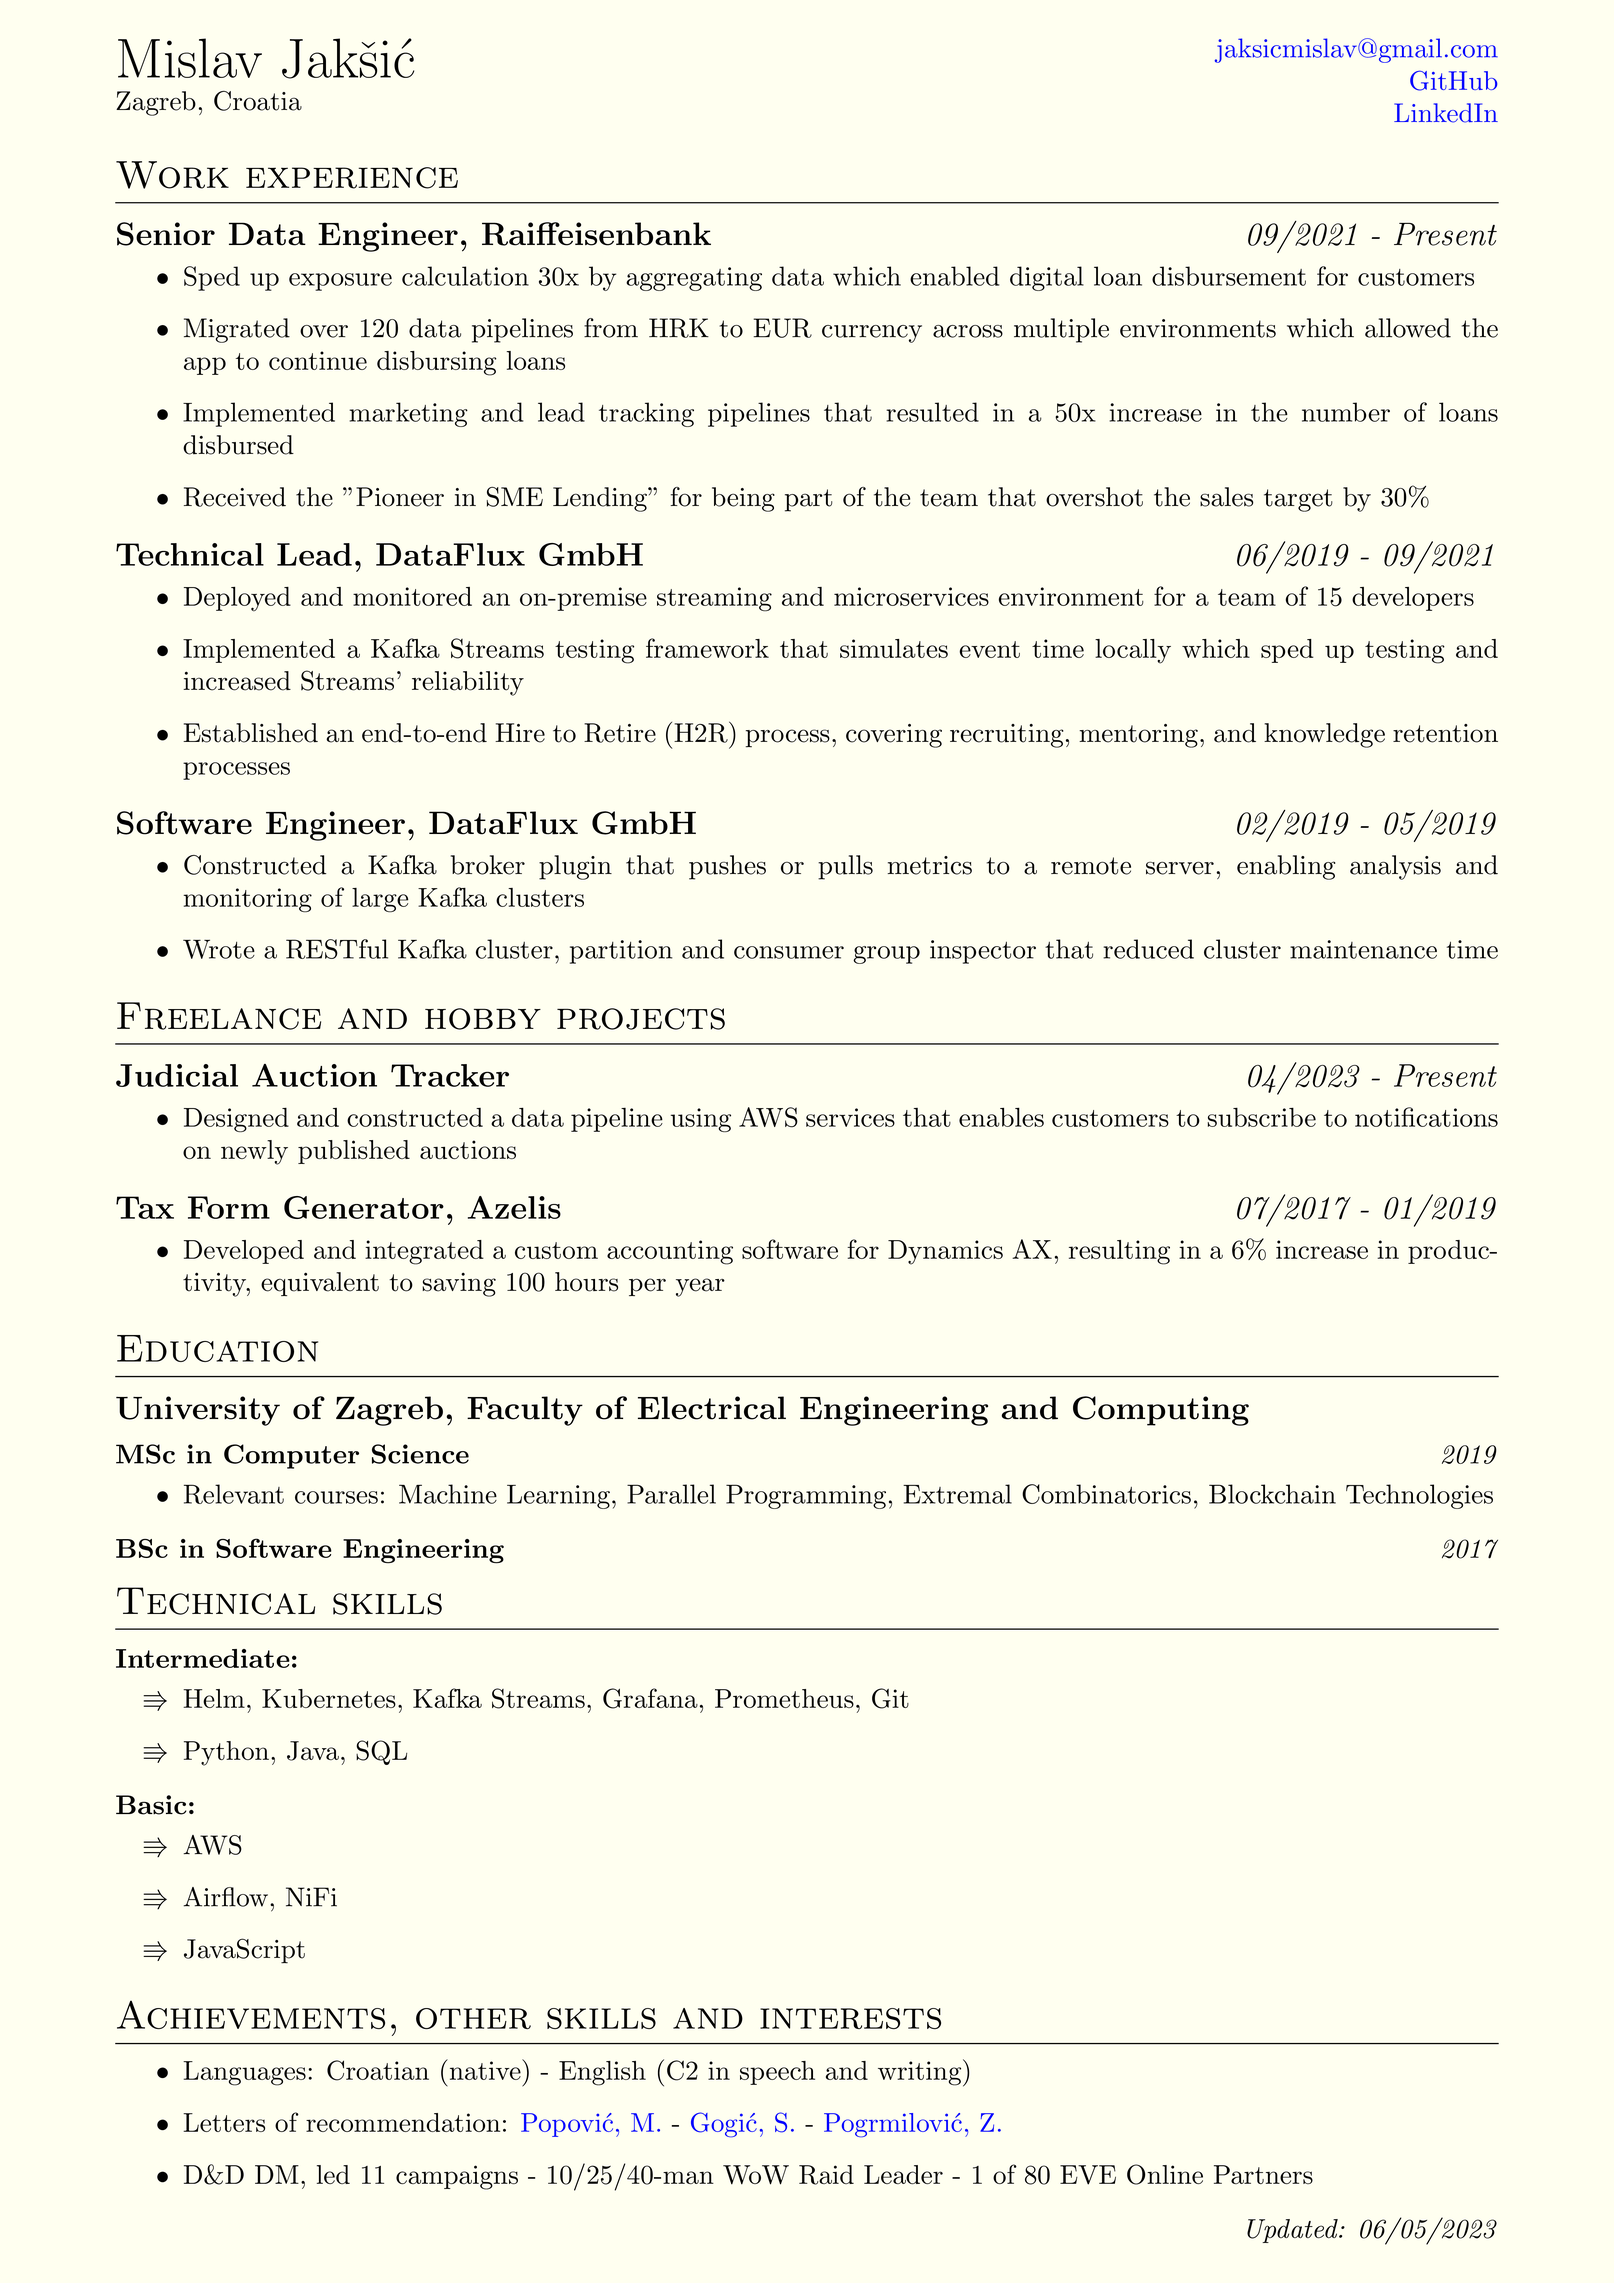
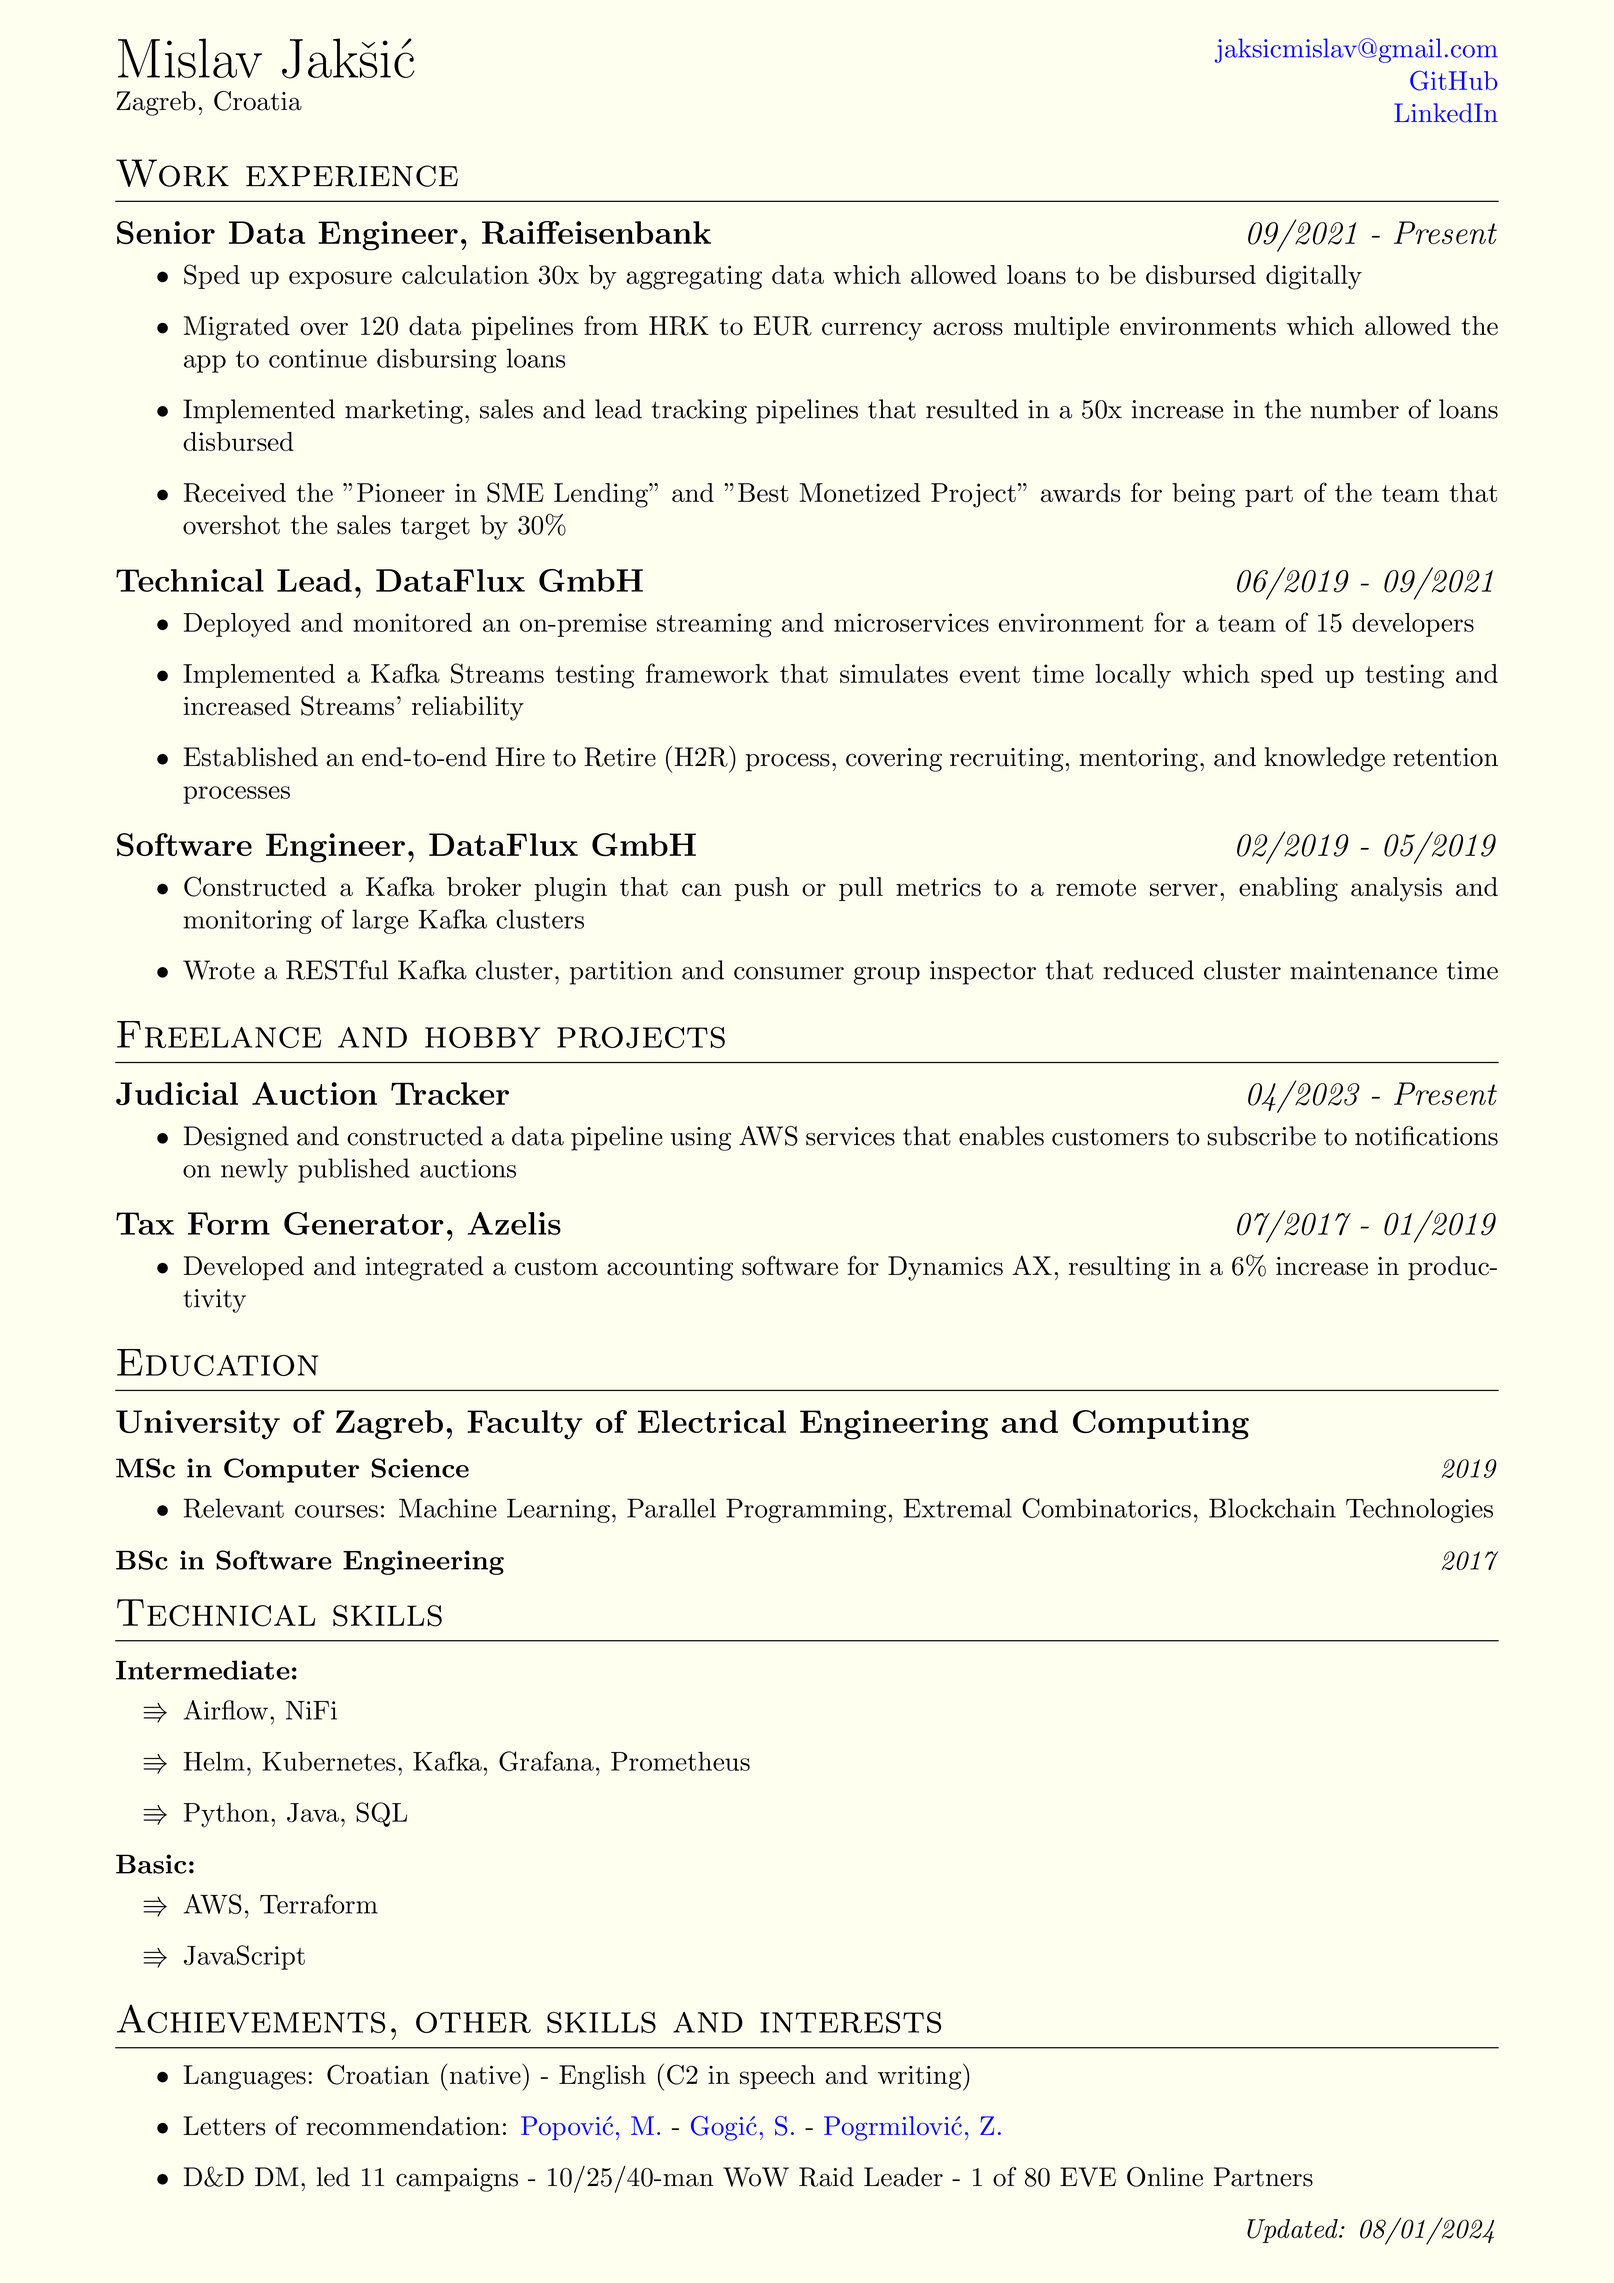
Updated CV

diff --git a/CV.tex b/CV.tex
@@ -131,10 +131,10 @@ Zagreb, Croatia
 \subsection{\bolditalicpair{Senior Data Engineer, Raiffeisenbank}{09/2021 - Present}}
 
 \begin{itemize}
- \item Sped up exposure calculation 30x by aggregating data which enabled digital loan disbursement for customers
+ \item Sped up exposure calculation 30x by aggregating data which allowed loans to be disbursed digitally
  \item Migrated over 120 data pipelines from HRK to EUR currency across multiple environments which allowed the app to continue disbursing loans
- \item Implemented marketing and lead tracking pipelines that resulted in a 50x increase in the number of loans disbursed
- \item Received the "Pioneer in SME Lending" for being part of the team that overshot the sales target by 30\%
+ \item Implemented marketing, sales and lead tracking pipelines that resulted in a 50x increase in the number of loans disbursed
+ \item Received the "Pioneer in SME Lending" and "Best Monetized Project" awards for being part of the team that overshot the sales target by 30\%
 \end{itemize}
 
 \subsection{\bolditalicpair{Technical Lead, DataFlux GmbH}{06/2019 - 09/2021}}
@@ -150,7 +150,7 @@ Zagreb, Croatia
 \subsection{\bolditalicpair{Software Engineer, DataFlux GmbH}{02/2019 - 05/2019}}
 
 \begin{itemize}
-  \item Constructed a Kafka broker plugin that pushes or pulls metrics to a remote server, enabling analysis and monitoring of large Kafka clusters
+  \item Constructed a Kafka broker plugin that can push or pull metrics to a remote server, enabling analysis and monitoring of large Kafka clusters
   \item Wrote a RESTful Kafka cluster, partition and consumer group inspector that reduced cluster maintenance time
 %  \item[$\Rrightarrow$] Kafka, ZooKeeper, Spring, JMX, Git, Linux, Shell Scripting
 \end{itemize}
@@ -182,7 +182,7 @@ Zagreb, Croatia
 \subsection{\bolditalicpair{Tax Form Generator, Azelis}{07/2017 - 01/2019}}
 
 \begin{itemize}
-  \item Developed and integrated a custom accounting software for Dynamics AX, resulting in a 6\% increase in productivity, equivalent to saving 100 hours per year
+  \item Developed and integrated a custom accounting software for Dynamics AX, resulting in a 6\% increase in productivity
 %  \item[$\Rrightarrow$] Python
 \end{itemize}
 
@@ -214,15 +214,15 @@ Zagreb, Croatia
 \subsubsection{\bolditalicpair{Intermediate:}{}}
 
 \begin{itemize}
-  \item[$\Rrightarrow$] Helm, Kubernetes, Kafka Streams, Grafana, Prometheus, Git
+  \item[$\Rrightarrow$] Airflow, NiFi
+  \item[$\Rrightarrow$] Helm, Kubernetes, Kafka, Grafana, Prometheus
   \item[$\Rrightarrow$] Python, Java, SQL
 \end{itemize}
 
 \subsubsection{\bolditalicpair{Basic:}{}}
 
 \begin{itemize}
-  \item[$\Rrightarrow$] AWS
-  \item[$\Rrightarrow$] Airflow, NiFi
+  \item[$\Rrightarrow$] AWS, Terraform
   \item[$\Rrightarrow$] JavaScript
 \end{itemize}
 
@@ -236,6 +236,6 @@ Zagreb, Croatia
   \item D\&D DM, led 11 campaigns - 10/25/40-man WoW Raid Leader - 1 of 80 EVE Online Partners
 \end{itemize}
 
-\bolditalicpair{}{Updated: 06/05/2023}
+\bolditalicpair{}{Updated: 08/01/2024}
 
 \end{document}
